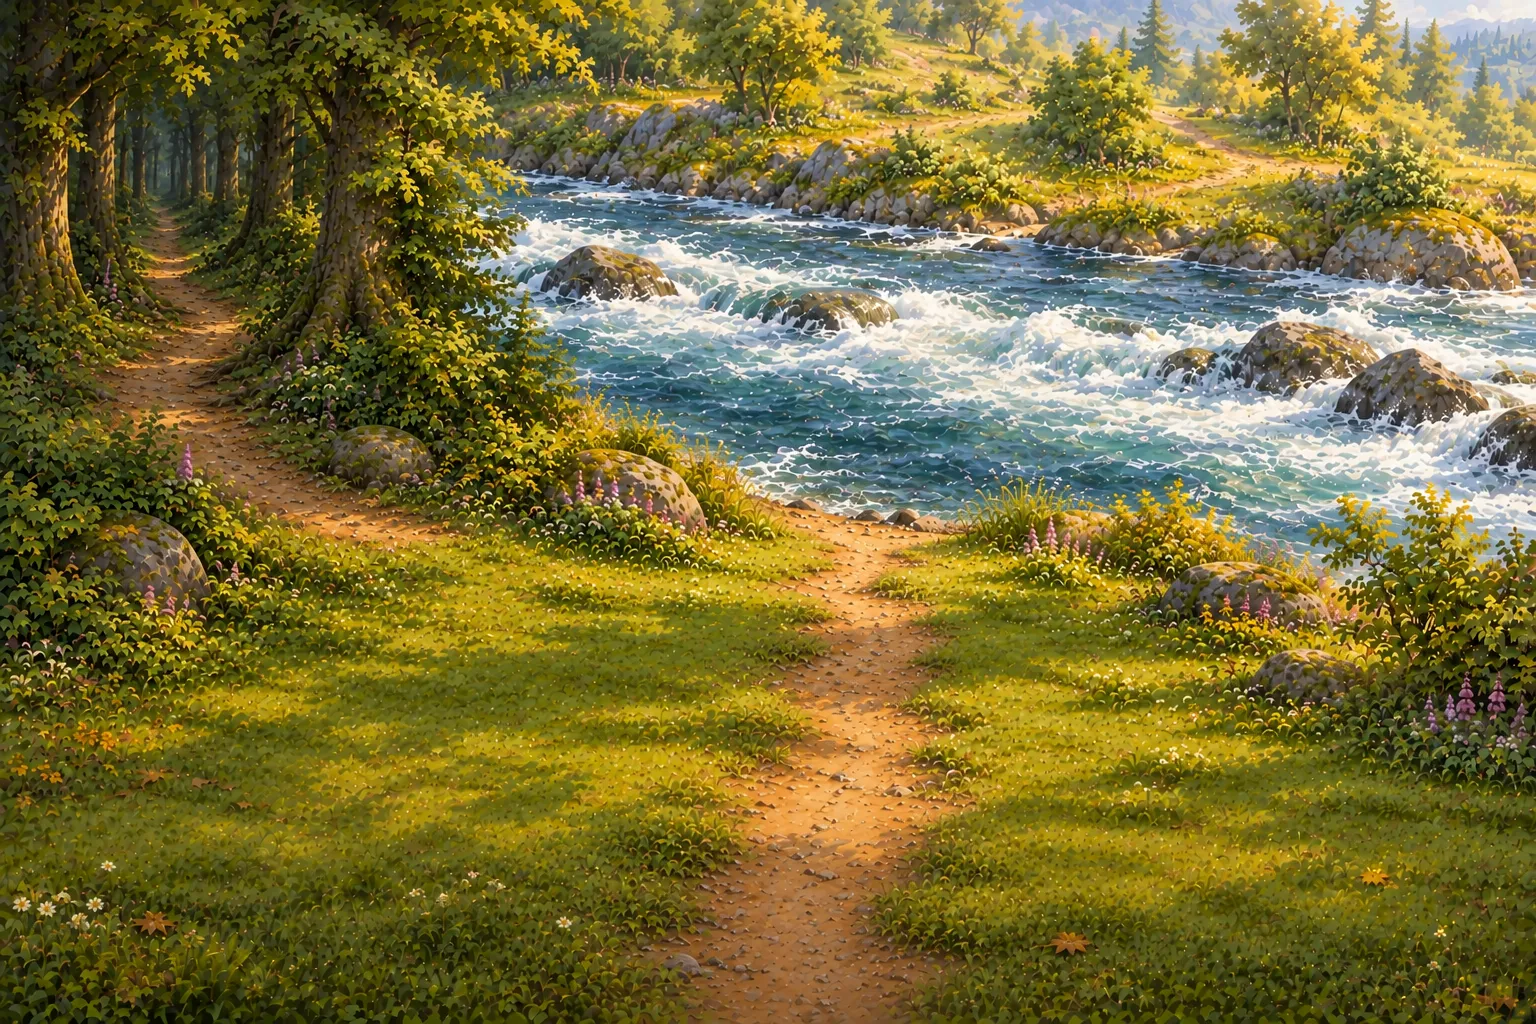
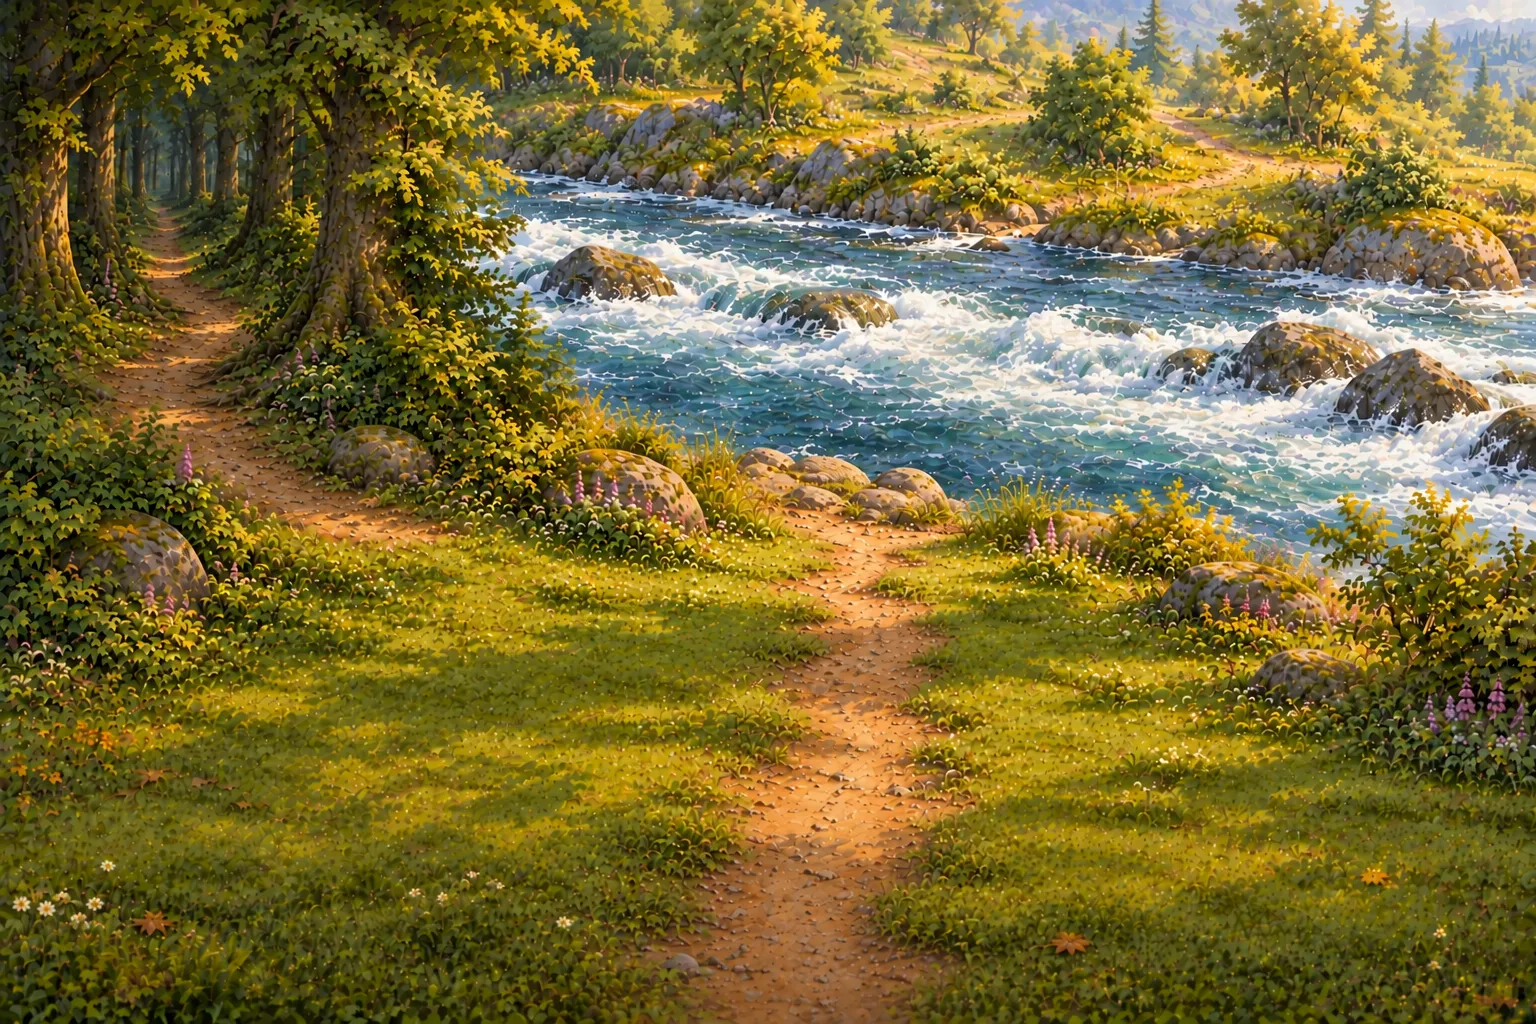
feat: Add more effect art

diff --git a/art/prompts/effects/deep-river--plank.md b/art/prompts/effects/deep-river--plank.md
@@ -13,4 +13,4 @@ Shown when: "The plank reaches to the other side." (opens the way south)
 
 ## Prompt
 
-> A long, sturdy wooden **plank** now reaches from the rocky edge of this bank straight across the rushing river, towards the bottom of the picture and the far bank beyond it. It starts on this bank, in the middle of the picture, so its near end is clearly visible. It is the plank in the second image. Nothing else in the picture changes.
+> A long, sturdy wooden **plank** now reaches from the rocky edge of this bank out over the rushing river, pointing straight towards us (south). Its near end rests on the bank in the middle of the picture, clearly visible. It runs **straight down and out of the bottom edge of the picture**: its far end is out of sight, beyond the bottom edge, on the far bank behind us. We must not see the far end, and nothing holds it up in the picture: no rock, stone or bank under it in the water. The river keeps rushing past beneath it right down to the bottom edge. It is the plank in the second image. Nothing else in the picture changes.
